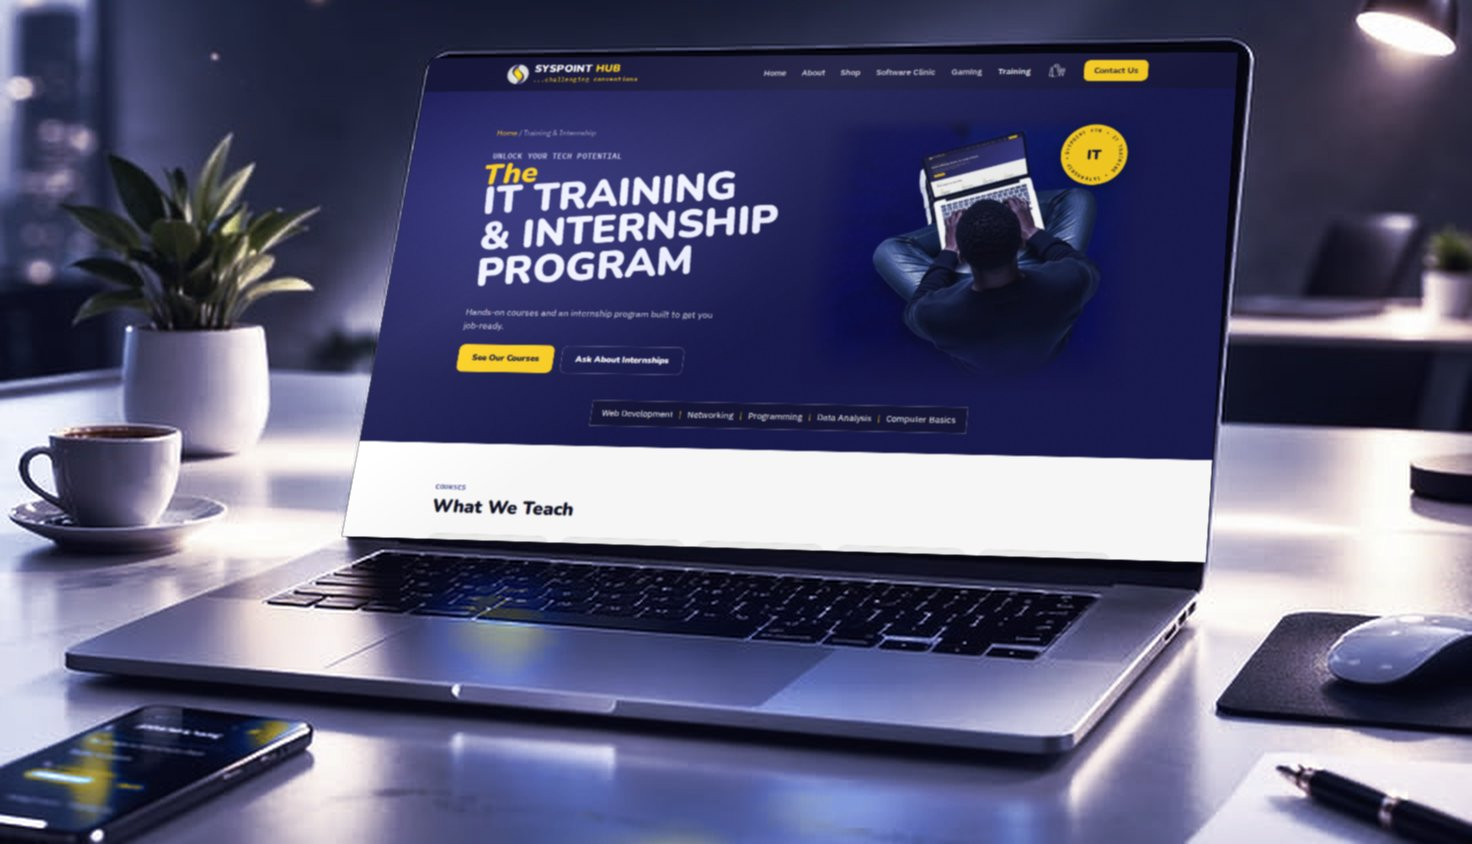
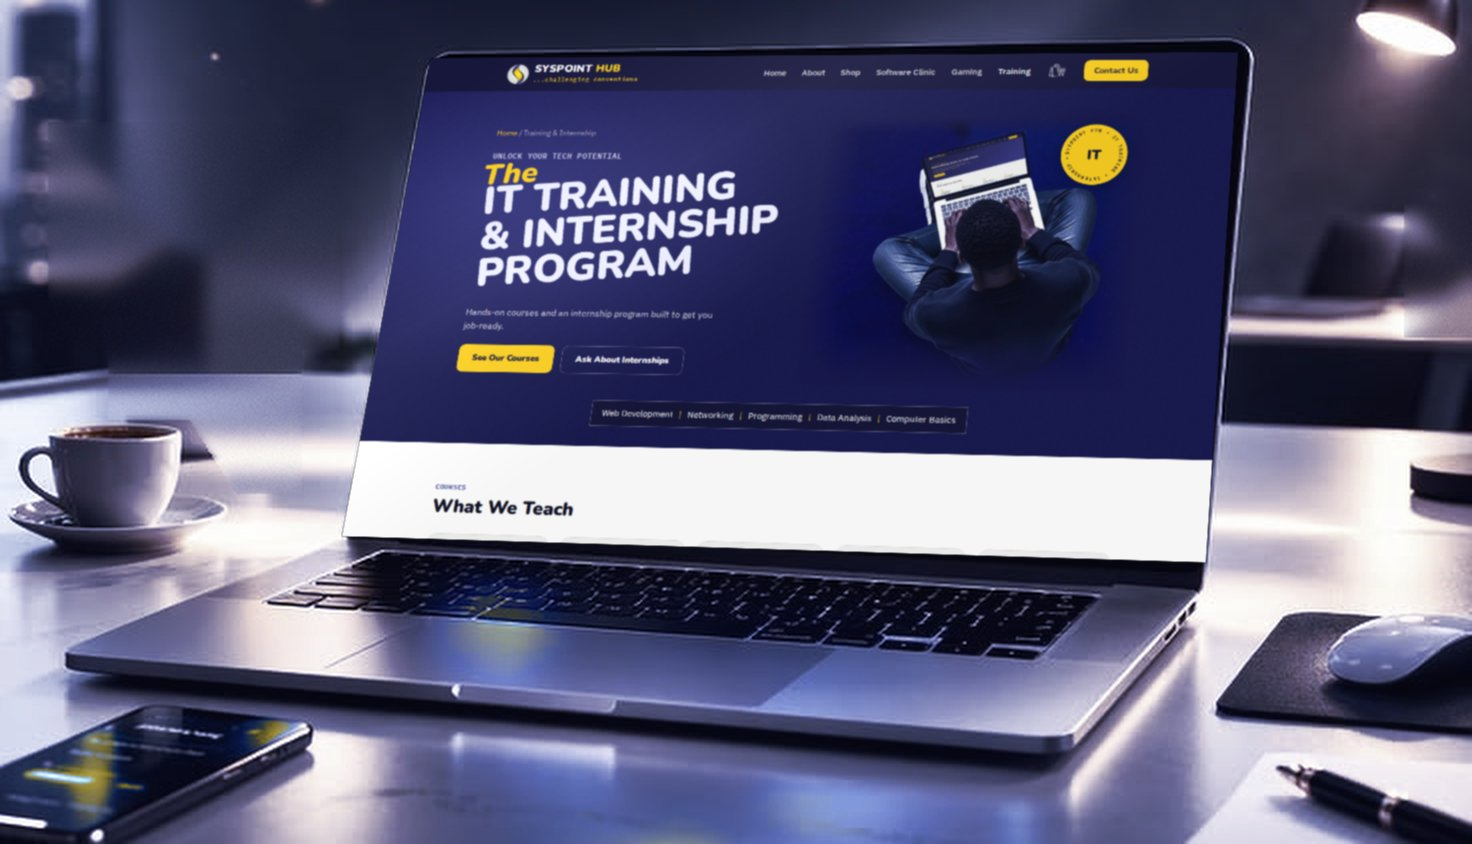
Home hero: restore the subtle swoosh; remove plants from the desk
- Swoosh back to the earlier version (Indigo ribbon at 50% with a thin
  gold line, lower two-thirds of the hero); the bold ribbon, lemon echo
  and glow are gone.
- Paint the potted plant off the desk (and the small plant on the back
  desk, far right) in all three desk-scene renders: the blurred wall is
  filled by diffusion inpainting and softened to the depth of field, the
  desk by blending each row between its neighbours, done as separate
  passes so the desk's back edge stays crisp; the coffee cup is kept.

Claude-Session: https://claude.ai/code/session_01V4AdRnaABNZnaBTZbbiHrp

Changed region(s): [[0.0312, 0.1232, 0.25, 0.5545], [0.9375, 0.2464, 1.0, 0.4005], [0.1562, 0.5545, 0.1875, 0.5853]]

diff --git a/public/assets/css/style.css b/public/assets/css/style.css
@@ -261,8 +261,7 @@ img { max-width: 100%; display: block; }
     isolation: isolate;
 }
 /* The swoosh lives in the lower two-thirds so it runs behind the laptop and cards, never through the headline. */
-.home-swoosh { position: absolute; left: 0; right: 0; bottom: 0; width: 100%; height: 68%; z-index: -1; filter: drop-shadow(0 0 18px rgba(247, 203, 30, 0.25)); }
-.home-swoosh-band { opacity: 0.85; }
+.home-swoosh { position: absolute; left: 0; right: 0; bottom: 0; width: 100%; height: 66%; z-index: -1; }
 main:has(.home-hero) + .site-footer { margin-top: 0; }
 .home-hero-head { text-align: center; max-width: 860px; }
 .home-hero-kicker {
@@ -393,7 +392,6 @@ a.home-service:hover, a.home-service:focus-visible {
     .home-stats { flex-wrap: wrap; padding: 14px; }
     .home-stat { flex: 1 1 30%; border-right: none; padding: 4px; }
     .home-stat strong { font-size: 1.1rem; white-space: nowrap; }
-    .home-swoosh { height: 60%; }
     .home-stats-cta { margin: 10px 0 0; width: 100%; }
     .home-hero-tagline { font-size: 0.8rem; letter-spacing: 0.12em; }
 }

diff --git a/app/views/pages/home.php b/app/views/pages/home.php
@@ -27,15 +27,8 @@ $services = [
 ?>
 <section class="home-hero">
     <svg class="home-swoosh" viewBox="0 0 1200 900" preserveAspectRatio="xMidYMid slice" aria-hidden="true">
-        <defs>
-            <linearGradient id="swooshBand" x1="0" y1="0" x2="1" y2="1">
-                <stop offset="0" stop-color="#4A4AB8"/>
-                <stop offset="1" stop-color="#34348A"/>
-            </linearGradient>
-        </defs>
-        <path class="home-swoosh-band" d="M1320 170 C 780 130, 120 200, 170 370 S 1080 480, 1040 670 S 360 860, -120 860" fill="none" stroke="url(#swooshBand)" stroke-width="190" stroke-linecap="round"/>
-        <path d="M1320 170 C 780 130, 120 200, 170 370 S 1080 480, 1040 670 S 360 860, -120 860" fill="none" stroke="#F7CB1E" stroke-width="5" stroke-linecap="round"/>
-        <path d="M1320 262 C 800 220, 240 280, 270 370 S 1170 490, 1130 670 S 400 950, -120 950" fill="none" stroke="#FDE414" stroke-width="2" stroke-linecap="round" opacity="0.55"/>
+        <path d="M1320 40 C 1020 10, 820 160, 900 330 S 1040 640, 640 700 S 80 640, -120 900" fill="none" stroke="#34348A" stroke-width="170" stroke-linecap="round" opacity="0.5"/>
+        <path d="M1320 40 C 1020 10, 820 160, 900 330 S 1040 640, 640 700 S 80 640, -120 900" fill="none" stroke="#F7CB1E" stroke-width="2.5" stroke-linecap="round" opacity="0.6"/>
     </svg>
 
     <div class="container home-hero-head">
